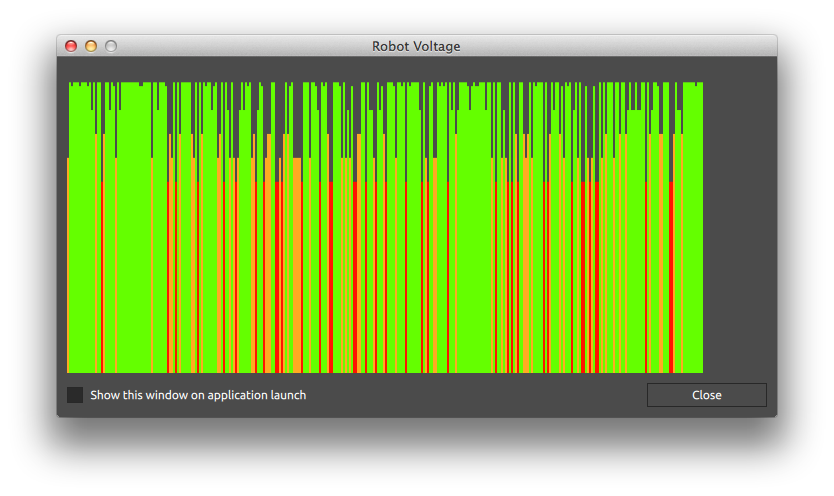
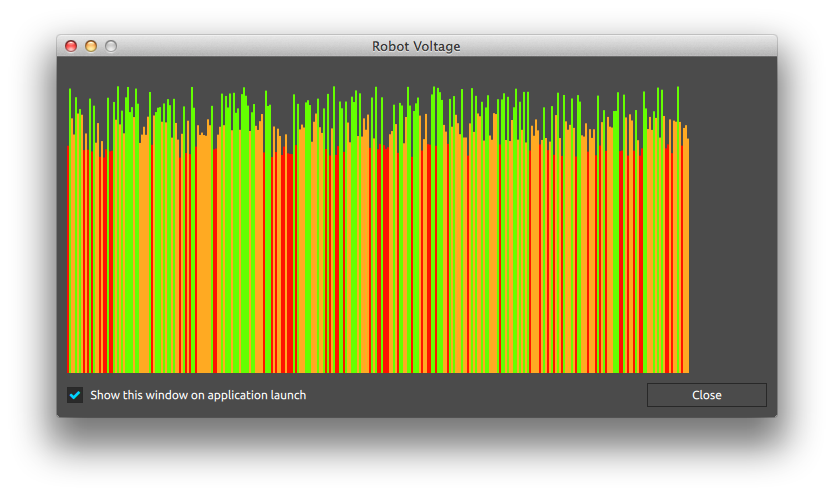
Modularize the plot canvas as a widget

Changed region(s): [[0.0624, 0.1512, 0.8417, 0.756], [0.0624, 0.7863, 0.0935, 0.8165]]

diff --git a/qml/widgets/Plot.qml b/qml/widgets/Plot.qml
@@ -24,9 +24,101 @@ import QtQuick 2.0
 
 import "../globals.js" as Globals
 
-Canvas {
-    id: plot
+Rectangle {
+    //
+    // Defines the refresh interval (in milliseconds) of the graph
+    //
+    property int refreshInterval: 50
 
-    property string fillColor: Globals.Colors.WindowBackground
-    property string highlightColor: Globals.Colors.HighlightColor
+    //
+    // Defines the width of each bar generated during each refresh
+    //
+    property double rectWidth: Globals.scale (2)
+
+    //
+    // Gives direct access to the canvas object
+    //
+    property alias canvasObject: canvas
+
+    //
+    // Defines the color to use to draw the lines
+    //
+    property string barColor: Globals.Colors.HighlightColor
+
+    //
+    // Display options
+    //
+    property int value: 0
+    property int minimumValue: 0
+    property int maximumValue: 100
+
+    //
+    // Emitted when the timer expires and a canvas repaint is done
+    //
+    signal refreshed
+
+    //
+    // Calculates the ratio between the current value and the maxinum value
+    //
+    function getLevel() {
+        return Math.max (value / maximumValue, minimumValue / maximumValue)
+    }
+
+    //
+    // Rectangle color & border
+    //
+    border.width: Globals.scale (1)
+    color: Globals.Colors.WindowBackground
+    border.color: Globals.Colors.WidgetBorder
+
+    //
+    // Refreshes the graph on real-time
+    //
+    Timer {
+        id: timer
+        interval: refreshInterval
+        Component.onCompleted: start()
+
+        property int currentPos: 0
+
+        onTriggered: {
+            ++currentPos
+            canvas.requestPaint()
+
+            refreshed()
+        }
+    }
+
+    //
+    // The actual canvas used to draw the graph
+    //
+    Canvas {
+        id: canvas
+        anchors.fill: parent
+        anchors.margins: parent.border.width
+
+        onPaint: {
+            var context = getContext('2d')
+
+            /* Set the bar color */
+            context.fillStyle = barColor
+
+            /* Calculate X and Y coordinates */
+            var xOffset = Globals.scale (timer.currentPos * rectWidth)
+            var yOffset = (1 - getLevel()) * height
+
+            /* Reset the graph if it is greater than the width */
+            if (xOffset > canvas.width) {
+                xOffset = 0
+                timer.currentPos = 0
+                context.clearRect (0, 0, canvas.width, canvas.height)
+            }
+
+            /* Draw a single bar */
+            context.fillRect (xOffset, yOffset, rectWidth, height)
+
+            /* Restart the timer */
+            timer.restart()
+        }
+    }
 }

diff --git a/qml/VoltageGraph.qml b/qml/VoltageGraph.qml
@@ -28,57 +28,27 @@ import Qt.labs.settings 1.0
 import "widgets"
 import "globals.js" as Globals
 
-Item {
-    property double currentPos: 0
-    property int refreshInterval: 50
-    property double rectWidth: Globals.scale (2)
-
-    Timer {
-        repeat: true
-        interval: refreshInterval
-        Component.onCompleted: start()
-
-        onTriggered: {
-            currentPos += 1
-            plot.requestPaint()
+Plot {
+    Connections {
+        target: DriverStation
+        onProtocolChanged: {
+            maximumValue = DriverStation.nominalBatteryVoltage()
+            minimumValue = DriverStation.nominalBatteryVoltage() / 10
         }
     }
 
-    Plot {
-        id: plot
-        anchors.fill: parent
+    barColor: Globals.Colors.TextAreaBackground
 
-        onPaint: {
-            var context = getContext('2d')
-            var voltage = DriverStation.currentBatteryVoltage() /
-                          DriverStation.nominalBatteryVoltage()
+    onRefreshed: {
+        value = DriverStation.currentBatteryVoltage()
 
-            voltage = Math.min (voltage, 0.95) // Do not exceed 95%
-            voltage = Math.max (voltage, 0.20) // Used during no robot comm.
-
-            /* Set stroke color */
-            if (voltage >= 0.8)
-                context.fillStyle = Globals.Colors.IndicatorGood
-            else if (voltage >= 0.7)
-                context.fillStyle = Globals.Colors.IndicatorWarning
-            else if (!DriverStation.isConnectedToRobot())
-                context.fillStyle = Globals.Colors.CPUProgress
-            else
-                context.fillStyle = Globals.Colors.IndicatorError
-
-            /* Calculate X and Y coordinates */
-            var xOffset = Globals.scale (currentPos * rectWidth)
-            var yOffset = (1 - voltage) * height
-
-            /* Reset the graph if it is greater than the width */
-            if (xOffset > plot.width) {
-                xOffset = 0
-                currentPos = 0
-                context.clearRect (0, 0, plot.width, plot.height)
-            }
-
-            /* Draw a rectangle with its highest part representing the voltage */
-            context.fillRect (xOffset, yOffset, rectWidth, height)
-        }
+        if (!DriverStation.isConnectedToRobot())
+            barColor = Globals.Colors.TextAreaBackground
+        else if (getLevel() > 0.80)
+            barColor = Globals.Colors.IndicatorGood
+        else if (getLevel() > 0.70)
+            barColor = Globals.Colors.IndicatorWarning
+        else
+            barColor = Globals.Colors.IndicatorError
     }
 }

diff --git a/qml/Status.qml b/qml/Status.qml
@@ -195,19 +195,16 @@ Item {
                 size: Globals.scale (42)
                 horizontalAlignment: Text.AlignLeft
 
-                color: mouse.containsMouse ?
-                           Globals.Colors.AlternativeHighlight :
-                           Globals.Colors.Foreground
-
                 //
                 // Robot voltage plot
                 //
                 VoltageGraph {
                     x: Globals.scale (3)
-                    y: Globals.scale (12)
+                    y: Globals.scale (9)
                     width: Globals.scale (45)
-                    height: Globals.scale (21)
+                    height: Globals.scale (24)
 
+                    border.width: 0
                     refreshInterval: 250
                     rectWidth: Globals.scale (0.5)
                 }
@@ -221,19 +218,14 @@ Item {
                 text: status.robotVoltage
                 verticalAlignment: Text.AlignVCenter
                 horizontalAlignment: Text.AlignHCenter
-
-                color: mouse.containsMouse ?
-                           Globals.Colors.AlternativeHighlight :
-                           Globals.Colors.Foreground
             }
 
             MouseArea {
                 id: mouse
-                hoverEnabled: true
                 anchors.fill: parent
                 onClicked: {
                     Globals.normalBeep()
-                    voltageWindow.show()
+                    window.showVoltageWindow()
                 }
             }
         }
@@ -298,9 +290,5 @@ Item {
             horizontalAlignment: Qt.AlignHCenter
             wrapMode: Text.WrapAtWordBoundaryOrAnywhere
         }
-    }
-
-    VoltageWindow {
-        id: voltageWindow
     }
 }

diff --git a/qml/main.qml b/qml/main.qml
@@ -61,6 +61,13 @@ ApplicationWindow {
     }
 
     //
+    // Display the voltage window (from anywhere in the app)
+    //
+    function showVoltageWindow() {
+        voltageWindow.show()
+    }
+
+    //
     // The actual docking procedures
     //
     function updateWindowMode() {
@@ -179,6 +186,13 @@ ApplicationWindow {
     //
     VirtualJoystickWindow {
         id: virtualJoystickWindow
+    }
+
+    //
+    // A discrete window that shows a more detailed robot voltage graph
+    //
+    VoltageWindow {
+        id: voltageWindow
     }
 
     //

diff --git a/qml/Graphs.qml b/qml/Graphs.qml
@@ -28,6 +28,23 @@ import Qt.labs.settings 1.0
 import "widgets"
 import "globals.js" as Globals
 
-Item {
+ColumnLayout {
+    spacing: Globals.spacing
 
+    Label {
+        text: qsTr ("Robot Voltage") + ":"
+    }
+
+    VoltageGraph {
+        Layout.fillWidth: true
+        Layout.fillHeight: true
+
+        MouseArea {
+            anchors.fill: parent
+            onClicked: {
+                Globals.normalBeep()
+                window.showVoltageWindow()
+            }
+        }
+    }
 }

diff --git a/qml/RightTab.qml b/qml/RightTab.qml
@@ -105,8 +105,8 @@ RowLayout {
         }
 
         Button {
-            icon: icons.fa_bolt
             caption.font.bold: true
+            icon: icons.fa_area_chart
             width: Globals.scale (36)
             height: Globals.scale (36)
             onClicked: rightTab.showGraphs()

diff --git a/lib/LibDS/src/DriverStation.cpp b/lib/LibDS/src/DriverStation.cpp
@@ -133,6 +133,8 @@ DriverStation::~DriverStation()
     delete m_fmsWatchdog;
     delete m_radioWatchdog;
     delete m_robotWatchdog;
+
+    qDebug() << "Program terminated";
 }
 
 /**
